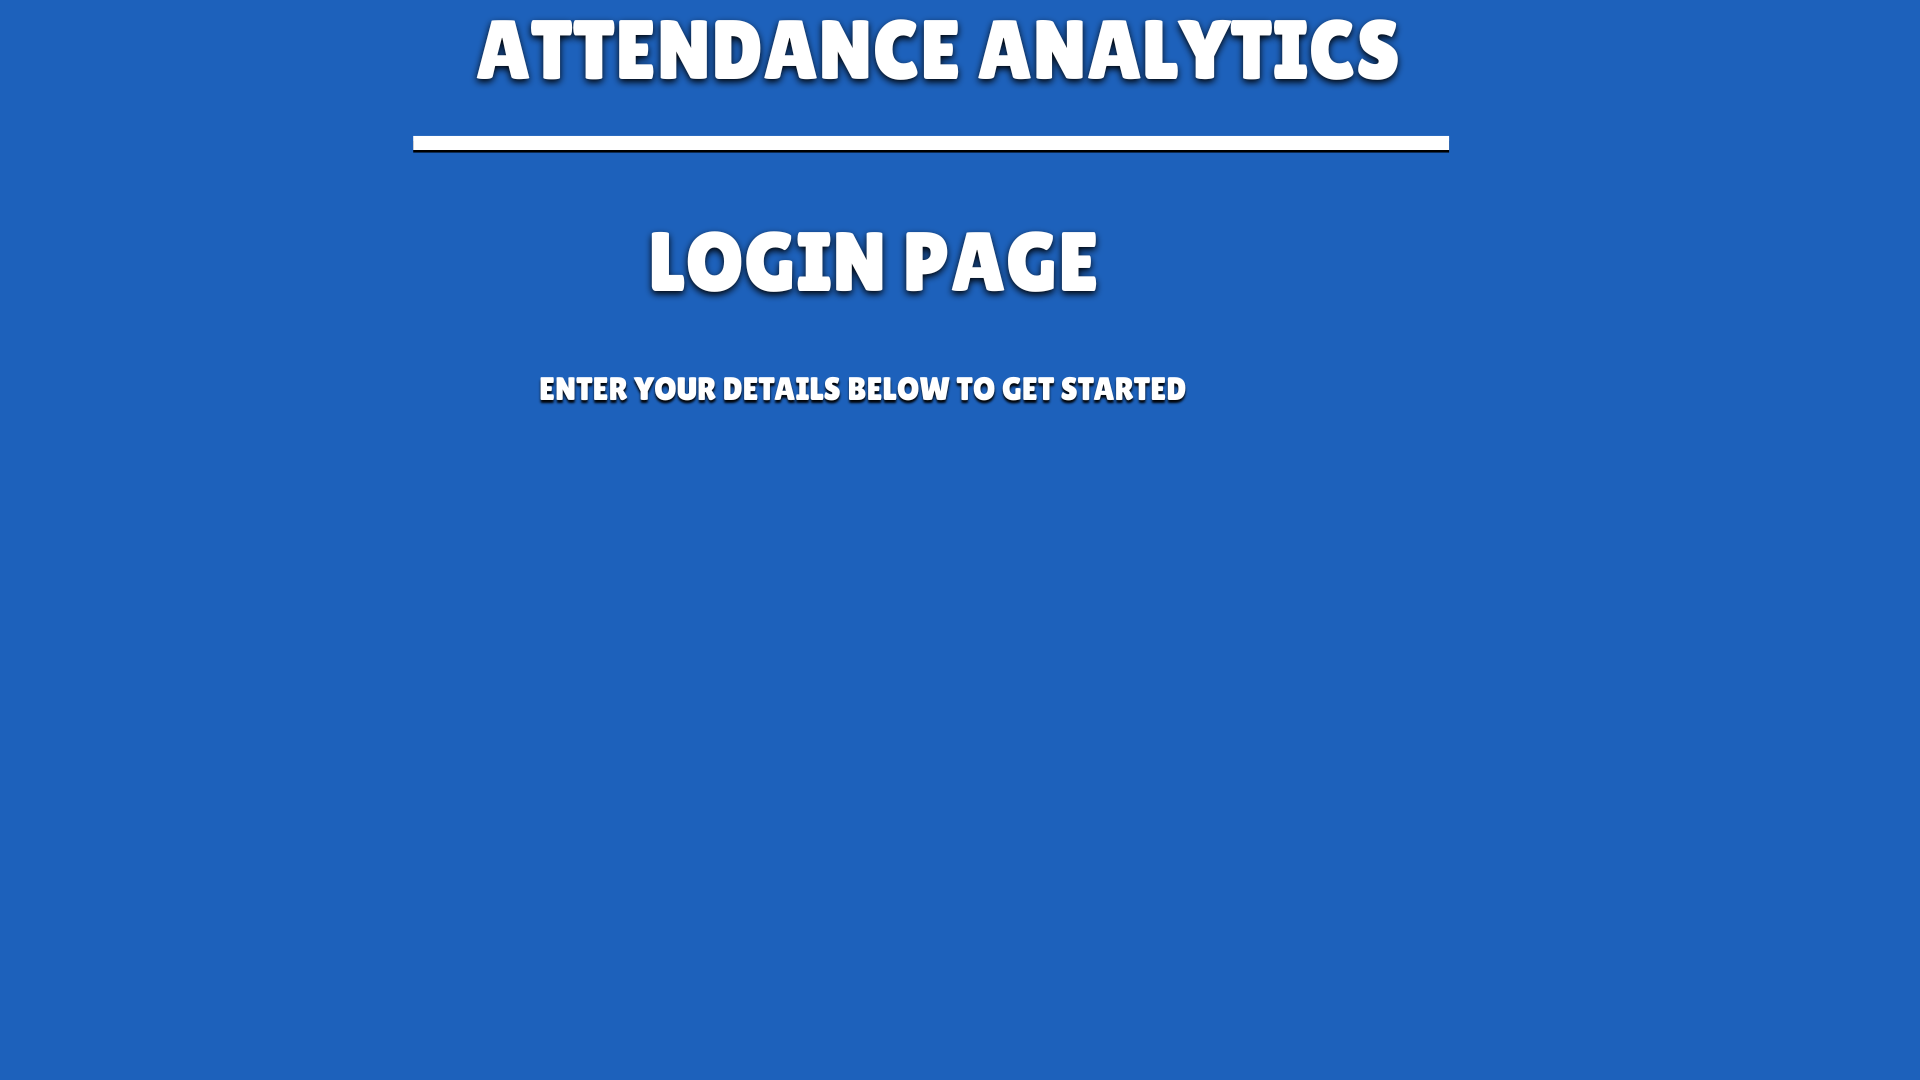
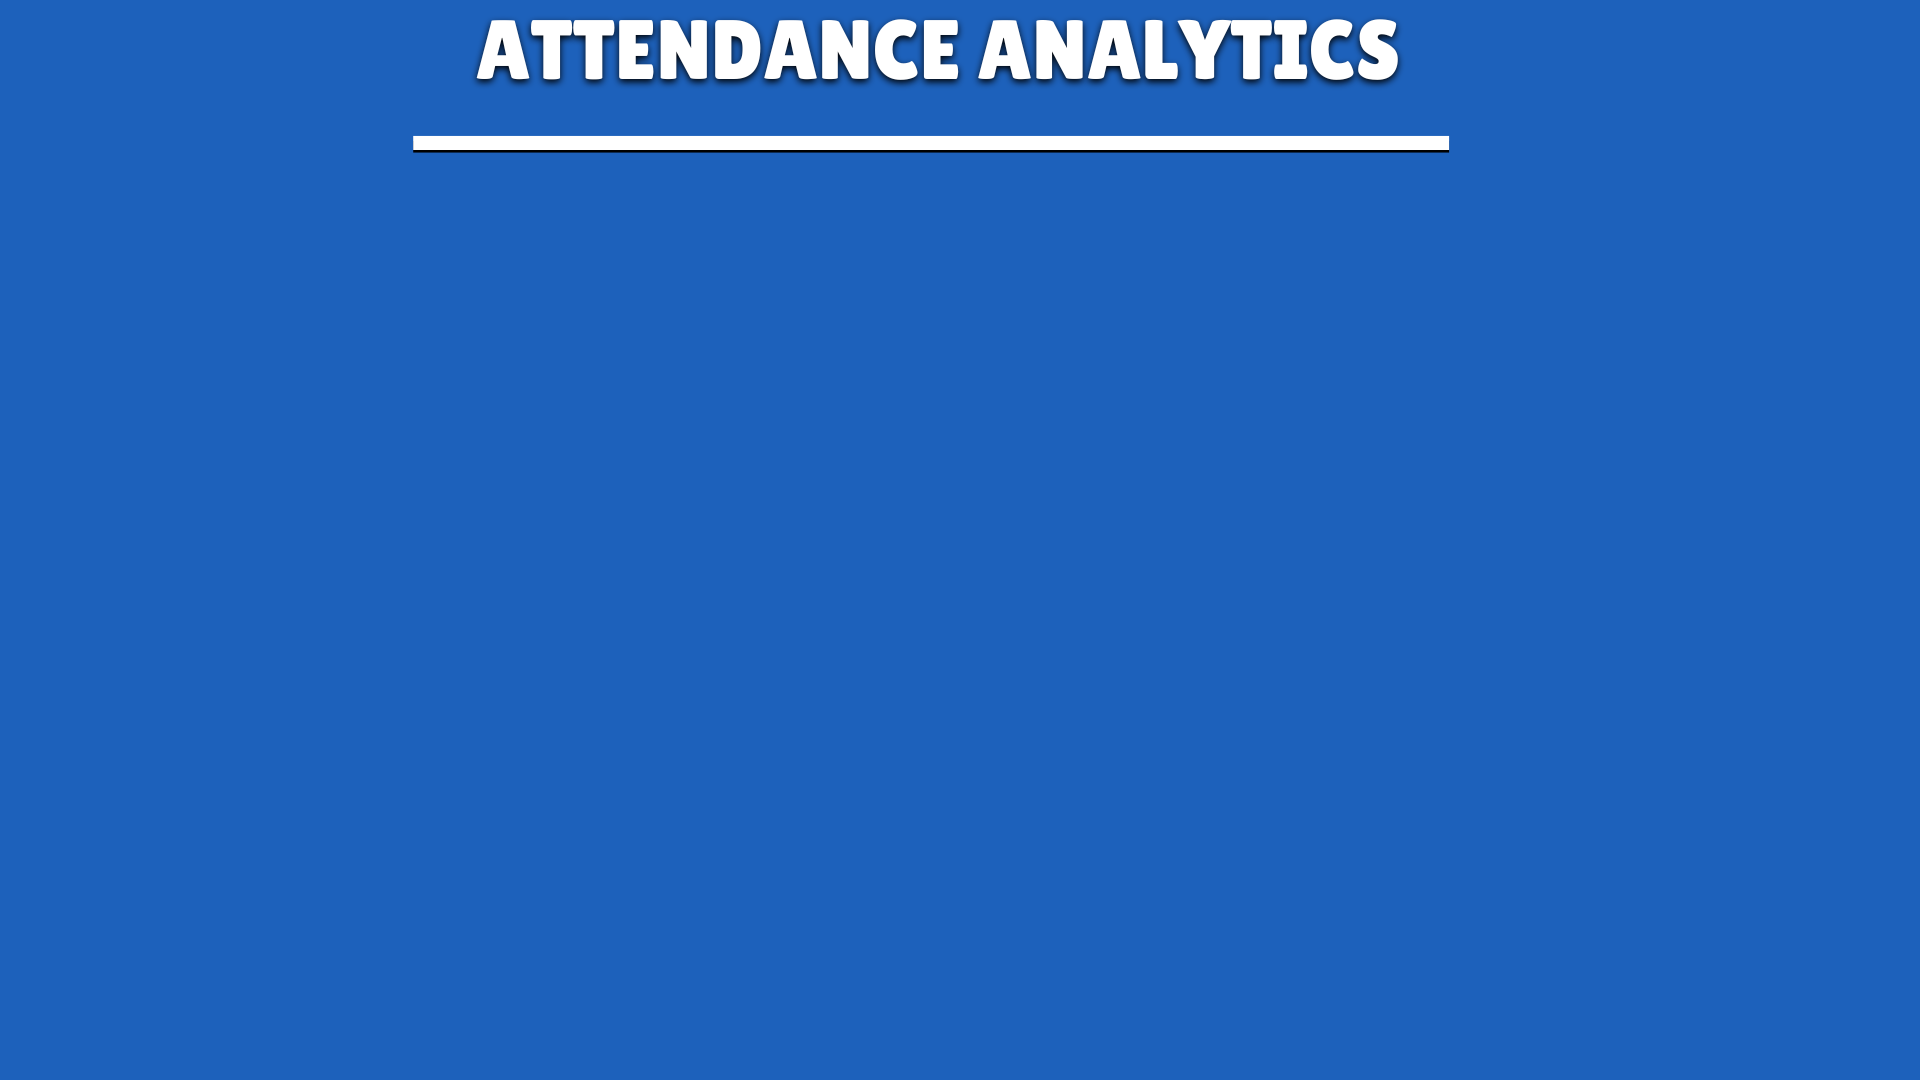
Added the list of attendance facts which will be used for one of my components reworked my log in page adding the sub-components to my home page component filled in home page component(modifications still to be added) starting to add calculator page(finished but with red error markers) starting to a

Changed region(s): [[0.2812, 0.3361, 0.625, 0.3972], [0.3125, 0.2139, 0.5938, 0.275]]

diff --git a/main.py b/main.py
@@ -1,46 +1,60 @@
+import random
 from tkinter import *
 from PIL import Image, ImageTk # imports modules for image resizing and display
 
 name_list = [] # stores all the entered names
 user_name = "" # stores the user's current name
+global_background_file = "Attendance Analytics.png"
 
+ATTENDANCE_FACTS = [
+   "Missing just 10% of the school year can drastically impact academic advancement.",
+   "Regular school attendance directly correlates with higher tertiary qualification achievements.",
+   "Every single school day missed takes a toll on your final subject's credit potential.",
+   "Arriving late to classes disrupts personal concentration and overall classroom flow.",
+   "Establishing strong attendance routines now builds excellent workplace habits for the future."]
 
 class LoginPage:
     def __init__(self, parent):
         background_color = "#1D61BB"  # sets the background colour
 
-        self.image = Image.open("Attendance Analytics.png")
-        self.photo = ImageTk.PhotoImage(self.image)
-        self.img_width, self.img_height = self.image.size
+        try:
+            self.image = Image.open(global_background_file)
+            self.photo = ImageTk.PhotoImage(self.image)
+            self.img_width, self.img_height = self.image.size
+        except Exception:
+            # Fallback size parameters if background graphic asset is missing
+            self.img_width, self.img_height = 1000, 600
+            self.photo = None
+
         parent.geometry(f"{self.img_width}x{self.img_height}")
-        parent.title("Attendance Analytics")
+        parent.title("Attendance Analytics - Secure Login")
 
         self.login_frame = Frame(parent, bg=background_color)
         self.login_frame.pack(fill="both", expand=True)
 
-        self.bg_label = Label(self.login_frame, image=self.photo, bd=0)
-        self.bg_label.place(x=0, y=0)  # only exception (background ONLY)
+        if self.photo:
+            self.bg_label = Label(self.login_frame, image=self.photo, bd=0)
+            self.bg_label.place(x=0, y=0)
 
-        self.bg_label = Label(self.login_frame, image=self.photo, bd=0)
-        self.bg_label.place(x=0, y=0)  # only exception (background ONLY)
+            self.container = Frame(self.login_frame, bg=background_color)
+            self.container.pack(expand=True)
 
-        self.container = Frame(self.login_frame, bg=background_color)
-        self.container.pack(expand=True)
+            self.text_canvas = Canvas(self.container, width=400, height=120, bg=background_color, highlightthickness=0)
+            self.text_canvas.pack(pady=0, padx=(0, 100))
 
-        self.text_canvas = Canvas(self.container, width=400, height=120, bg=background_color, highlightthickness=0)
-        self.text_canvas.pack(pady=0, padx=(0,100))
+            self.text_canvas.create_text(202, 90, text="NAME", font=("Lilita One", 36), fill="black")
+            self.text_canvas.create_text(200, 88, text="NAME", font=("Lilita One", 36), fill="white")
 
-        self.text_canvas.create_text(202, 90, text="NAME", font=("Lilita One", 36), fill="black")
-        self.text_canvas.create_text(200, 88, text="NAME", font=("Lilita One", 36), fill="white")
+            self.entry_box = Entry(self.container, width=22, font=("Lilita One", 16), justify="center")
+            self.entry_box.pack(pady=22, padx=(0, 100))
+            self.entry_box.bind("<KeyRelease>", self.validate_name)
 
-        self.entry_box = Entry(self.container, width=22, font=("Lilita One", 16))
-        self.entry_box.pack(pady=22, padx=(0, 100))
+            self.continue_button = Button(self.container, text="ENTER", font=("Lilita One", 14), state="disabled",
+                                          command=self.name_collect)
+            self.continue_button.pack(pady=0, padx=(0, 100))
 
-        self.continue_button = Button(self.container, text="ENTER", font=("Lilita One", 14), state="disabled", command=self.name_collect)
-        self.continue_button.pack(pady=0, padx=(0, 100))
-
-        self.error_label = Label(self.container, text="", fg="red", bg=background_color, font=("Lilita One", 11))
-        self.error_label.pack(pady=0, padx=(0, 100))
+            self.error_label = Label(self.container, text="", fg="red", bg=background_color, font=("Lilita One", 11))
+            self.error_label.pack(pady=10, padx=(0, 100))
 
     def validate_name(self, event=None):
         name = self.entry_box.get().strip()
@@ -61,29 +75,191 @@ class LoginPage:
         if name:
             user_name = name
             name_list.append(name)
-            print("Current User:", user_name)
-            print("All Names:", name_list)
+            self.login_frame.pack_forget()
+            HomePage(self.parent)
 
-class homepage:
+class HomePage:
+   def __init__(self, parent):
+       self.parent = parent
+       parent.title("Attendance Analytics - Main Hub")
+       background_color = "#1D61BB"
+
+       self.home_frame = Frame(parent, bg=background_color)
+       self.home_frame.pack(fill="both", expand=True)
+
+       try:
+           self.image = Image.open(global_background_file)
+           self.photo = ImageTk.PhotoImage(self.image)
+           self.bg_label = Label(self.home_frame, image=self.photo, bd=0)
+           self.bg_label.place(x=0, y=0)
+           self.bg_label.image = self.photo
+       except Exception:
+           pass
+
+           self.menu_container = Frame(self.home_frame, bg=background_color)
+           self.menu_container.pack(expand=True)
+
+           self.welcome_lbl = Label(self.menu_container, text=f"WELCOME, {user_name.upper()}!", font=("Lilita One", 28),
+                                    bg=background_color, fg="white")
+           self.welcome_lbl.pack(pady=(0, 30))
+
+           self.calc_button = Button(self.menu_container, text="CALCULATOR", font=("Lilita One", 18), bg="#FFC107",
+                                     fg="black", width=22, height=2, bd=0, cursor="hand2", command=self.open_calculator)
+           self.calc_button.pack(pady=12)
+
+           self.faq_button = Button(self.menu_container, text="FAQ", font=("Lilita One", 18), bg="#FFC107", fg="black",
+                                    width=22, height=2, bd=0, cursor="hand2", command=self.open_faq)
+           self.faq_button.pack(pady=12)
+
+           self.facts_button = Button(self.menu_container, text="ATTENDANCE FACTS", font=("Lilita One", 18),
+                                      bg="#FFC107",
+                                      fg="black", width=22, height=2, bd=0, cursor="hand2", command=self.open_facts)
+           self.facts_button.pack(pady=12)
+
+           self.exit_button = Button(self.home_frame, text="EXIT", font=("Lilita One", 12), bg="#D32F2F", fg="white",
+                                     bd=0,
+                                     padx=15, pady=5, command=self.parent.quit)
+           self.exit_button.place(x=30, y=530)
+
+   def open_calculator(self):
+           self.home_frame.pack_forget()
+           CalculatorPage(self.parent)
+
+   def open_faq(self):
+           self.home_frame.pack_forget()
+           FaqPage(self.parent)
+
+   def open_facts(self):
+           self.home_frame.pack_forget()
+           FactsPage(self.parent)
+
+class CalculatorPage:
     def __init__(self, parent):
-        background_color = "#D8CAB8"  # sets background colour
-        # sets up frame
+           self.parent = parent
+           background_color = "#1D61BB"
 
-        self.image = Image.open("Attendance Analytics.png")
-        self.photo = ImageTk.PhotoImage(self.image)
-        self.img_width, self.img_height = self.image.size
-        parent.geometry(f"{self.img_width}x{self.img_height}")
-        parent.title("Attendance Analytics")
+           self.calc_frame = Frame(parent, bg=background_color)
+           self.calc_frame.pack(fill="both", expand=True)
 
-        self.home_frame = Frame(parent, bg=background_color, padx=100, pady=100)
-        self.home_frame.grid()
+    try:
+            self.image = Image.open(global_background_file)
+            self.photo = ImageTk.PhotoImage(self.image)
+            self.bg_label = Label(self.calc_frame, image=self.photo, bd=0)
+            self.bg_label.place(x=0, y=0)
+            self.bg_label.image = self.photo
+    except Exception:
+            pass
 
-        if __name__ == "__main__":
+            self.main_layout = Frame(self.calc_frame, bg=background_color)
+            self.main_layout.pack(expand=True, pady=40)
+
+            self.headers = ["SUBJECTS", "DAYS ATTENDED", "TOTAL DAYS", "GOAL %"]
+            for col_idx, text in enumerate(self.headers):
+                lbl = Label(self.main_layout, text=text, font=("Lilita One", 14), bg=background_color, fg="white",
+                            width=15)
+                lbl.grid(row=0, col=col_idx, padx=5, pady=10)
+
+            self.rows_data = []
+            self.row_counter = 1
+
+            self.add_row()
+
+            self.controls_frame = Frame(self.calc_frame, bg=background_color)
+            self.controls_frame.pack(side="bottom", fill="x", pady=20)
+
+            self.back_btn = Button(self.controls_frame, text="BACK", font=("Lilita One", 12), bg="#E0E0E0",
+                                   command=self.go_back)
+            self.back_btn.pack(side="left", padx=30)
+
+            self.submit_btn = Button(self.controls_frame, text="CHECK ANALYTICS", font=("Lilita One", 14), bg="#FFC107",
+                                     command=self.process_calculations)
+            self.submit_btn.pack(side="right", padx=30)
+
+            # Boundary Logic Counter Matrix
+            self.stepper_frame = Frame(self.controls_frame, bg=background_color)
+            self.stepper_frame.pack(side="bottom", pady=5)
+
+            Label(self.stepper_frame, text="NO. OF SUBJECTS:", font=("Lilita One", 11), bg=background_color,
+                  fg="white").pack(side="left", padx=5)
+            Button(self.stepper_frame, text="-", font=("Lilita One", 12), width=3, command=self.remove_row).pack(
+                side="left")
+            Button(self.stepper_frame, text="+", font=("Lilita One", 12), width=3, command=self.add_row).pack(
+                side="left",
+                padx=5)
+
+    def add_row(self):
+        if self.row_counter <= 5:  # Safe layout limit to prevent desktop frame clipping
+            r_entries = []
+            for c_idx in range(4):
+                ent = Entry(self.main_layout, font=("Arial", 12), width=14, justify="center")
+                ent.grid(row=self.row_counter, column=c_idx, padx=5, pady=6)
+                if c_idx == 0:
+                    ent.insert(0, f"Subject {self.row_counter}")
+                elif c_idx == 3:
+                    ent.insert(0, "90")
+                r_entries.append(ent)
+            self.rows_data.append(r_entries)
+            self.row_counter += 1
+
+    def remove_row(self):
+        if len(self.rows_data) > 1:
+            for ent in self.rows_data[-1]:
+                ent.destroy()
+            self.rows_data.pop()
+            self.row_counter -= 1
+
+    def process_calculations(self):
+        calculated_results = []
+        for row in self.rows_data:
+            try:
+                sub_name = row[0].get().strip()
+                attended = float(row[1].get().strip())
+                total = float(row[2].get().strip())
+                goal = float(row[3].get().strip())
+
+                if total <= 0 or attended < 0 or goal < 0:
+                    continue  # Guard condition checks invalid data records cleanly
+
+                current_pct = (attended / total) * 100
+                required_days = max(0, int(((goal / 100) * total) - attended))
+
+            calculated_results.append({
+                "subject": sub_name, "current": current_pct, "days_needed": required_days, "goal": goal
+            })
+            except ValueError:
+            pass
+
+            if calculated_results:
+                    self.calc_frame.pack_forget()
+                    AnalyticsPage(self.parent, calculated_results)
+
+    def go_back(self):
+        self.calc_frame.pack_forget()
+        HomePage(self.parent)
+
+class AnalyticsPage:
+   def __init__(self, parent, results):
+       self.parent = parent
+       background_color = "#1D61BB"
+
+       self.analytics_frame = Frame(parent, bg=background_color)
+       self.analytics_frame.pack(fill="both", expand=True)
+
+       # Layout Container Block
+       self.center_wrapper = Frame(self.analytics_frame, bg=background_color)
+       self.center_wrapper.pack(expand=True)
+
+       title = Label(self.center_wrapper, text="PREDICTIVE PERFORMANCE PROFILE", font=("Lilita One", 20),
+                     bg=background_color, fg="white")
+       title.pack(pady=10)
 
 
-            root = Tk()
-            LoginPage(root)
-            root.mainloop()
+if __name__ == "__main__":
+       root = Tk()
+       root.resizable(False, False)  # Keeps layouts locked to your specific image frame sizes
+       app = LoginPage(root)
+       root.mainloop()
+
 
 
 